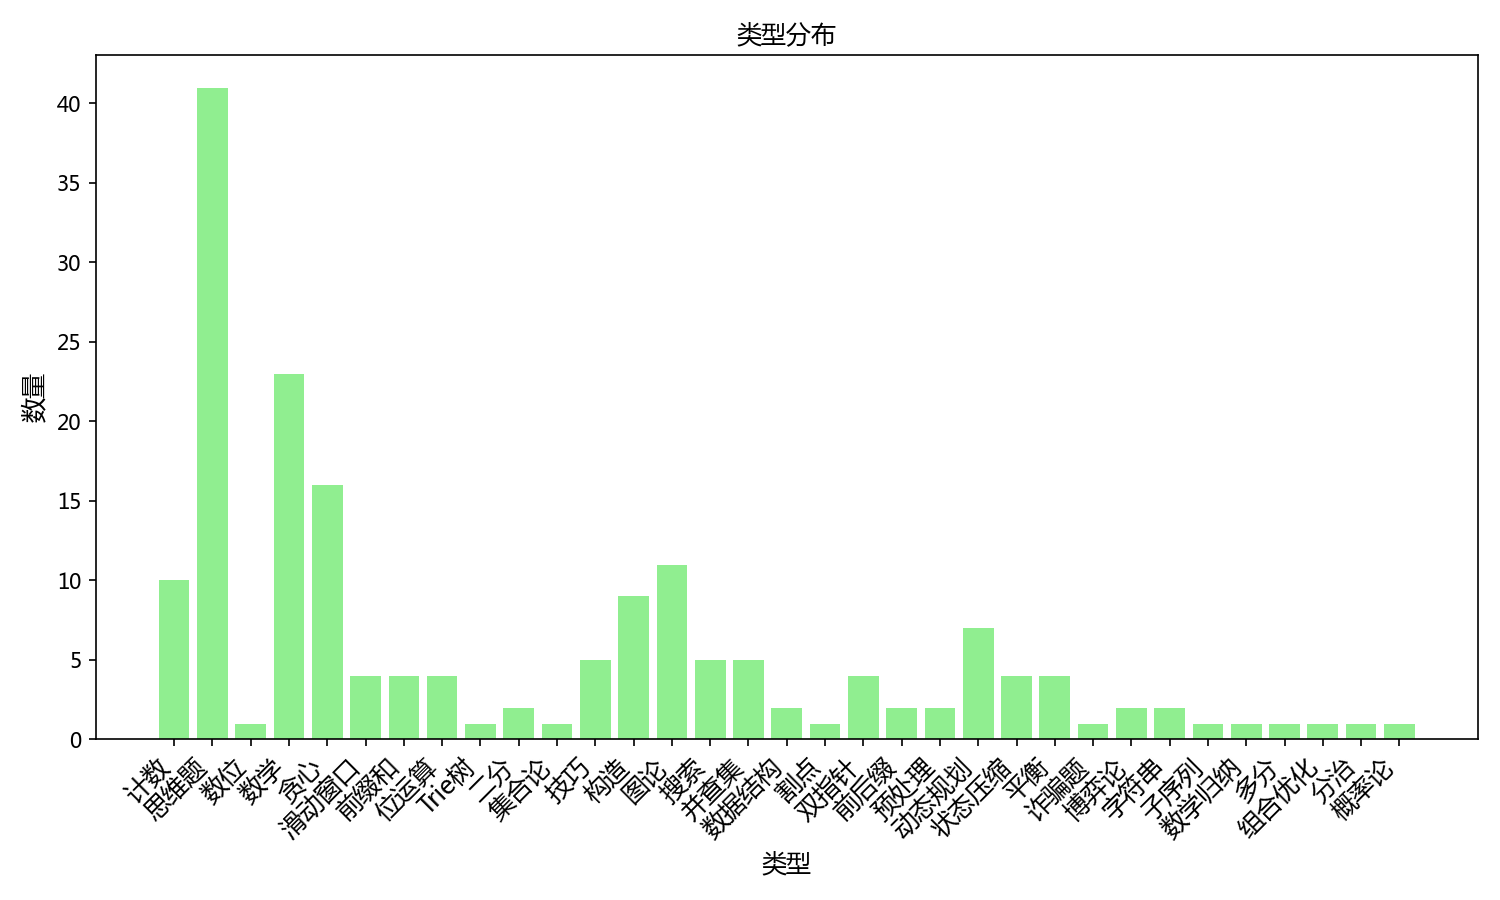
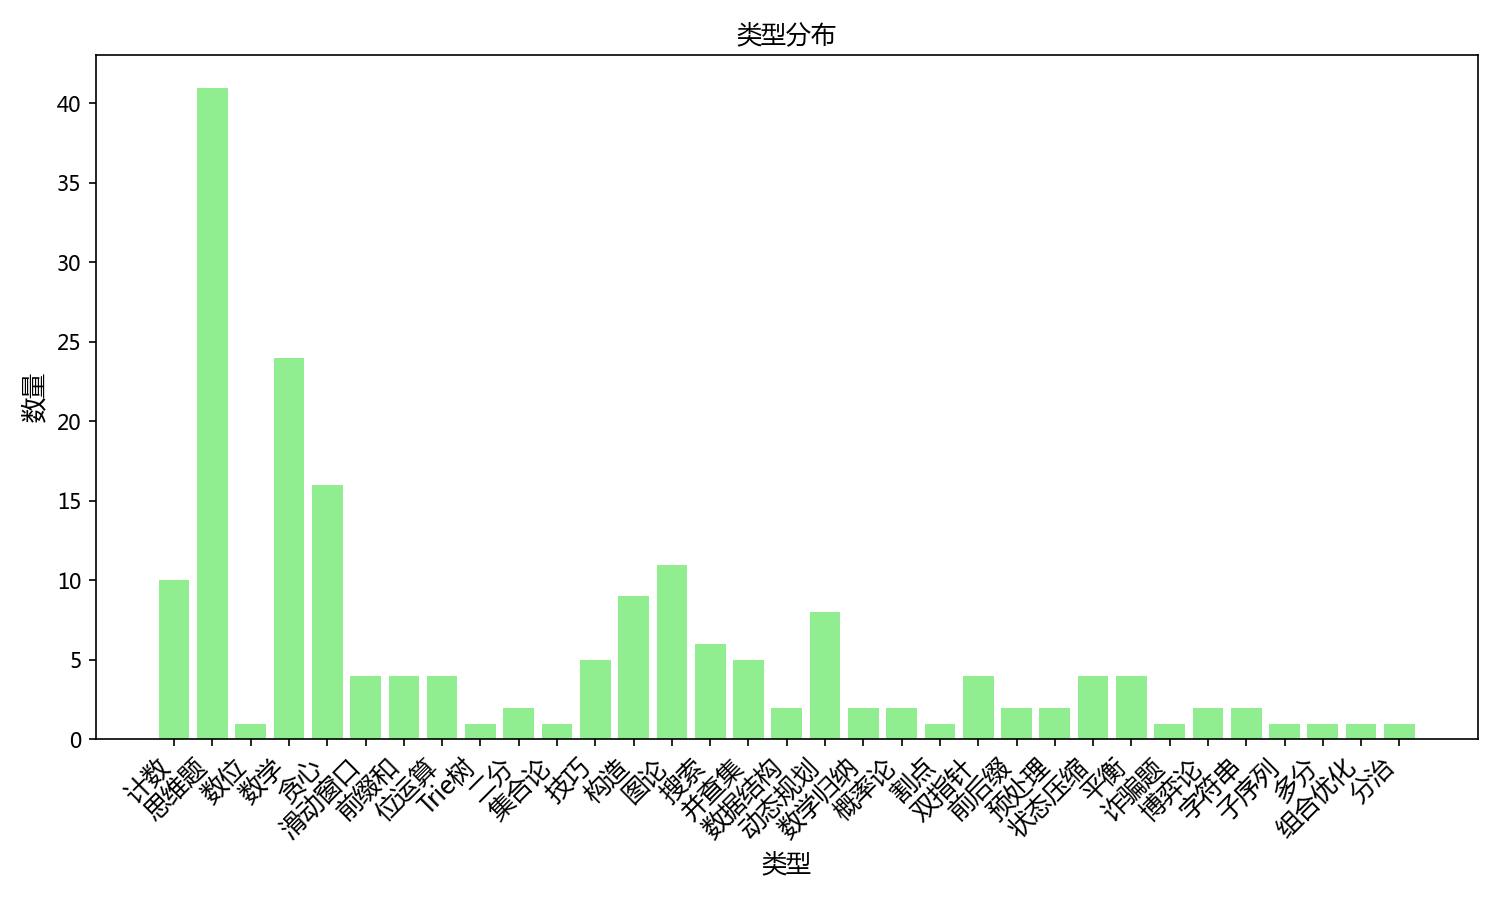
自动提交生成的文件

diff --git a/assets/scripts/UserPersonalSpace/users_html/JNMC孙国庆.html b/assets/scripts/UserPersonalSpace/users_html/JNMC孙国庆.html
@@ -234,7 +234,7 @@
         <rect class="day" width="11" height="11" y="0" fill="#1f9e2a" data-item="2" data-date="02/10/2025"></rect>
 <rect class="day" width="11" height="11" y="13" fill="#f2f2f2" data-item="0" data-date="02/11/2025"></rect>
 <rect class="day" width="11" height="11" y="26" fill="#37c043" data-item="1" data-date="02/12/2025"></rect>
-<rect class="day" width="11" height="11" y="39" fill="#37c043" data-item="1" data-date="02/13/2025"></rect>
+<rect class="day" width="11" height="11" y="39" fill="#1f9e2a" data-item="2" data-date="02/13/2025"></rect>
 <rect class="day" width="11" height="11" y="52" fill="#f2f2f2" data-item="0" data-date="02/14/2025"></rect>
 <rect class="day" width="11" height="11" y="65" fill="#f2f2f2" data-item="0" data-date="02/15/2025"></rect>
 <rect class="day" width="11" height="11" y="78" fill="#f2f2f2" data-item="0" data-date="02/16/2025"></rect>
@@ -665,7 +665,7 @@
         <div class="box-container">
             <div class="_UserActivityFrame_countersRow">
                 <div class="_UserActivityFrame_counter">
-                    <div class="_UserActivityFrame_counterValue">86 篇</div>
+                    <div class="_UserActivityFrame_counterValue">87 篇</div>
                     <div class="_UserActivityFrame_counterDescription">总文章数</div>
                 </div>
             </div>
@@ -1193,6 +1193,12 @@
         <div class="blog-post">
             <button class="blog-button" onclick="window.location.href='/刷题模块/OJ/牛客/周赛80/div2_{贪心;构造}_牛客_训练参赛(二).md/'">
                 训练参赛(二)
+            </button>
+        </div>
+        
+        <div class="blog-post">
+            <button class="blog-button" onclick="window.location.href='/刷题模块/OJ/牛客/周赛80/div3_{动态规划;数学;搜索;数学归纳;概率论}_牛客_不公平对局.md/'">
+                不公平对局
             </button>
         </div>
         

diff --git a/刷题模块/OJ/index.html b/刷题模块/OJ/index.html
@@ -114,6 +114,10 @@
   <a href="牛客/周赛80/div4_{贪心;计数;思维题}_牛客_举手赢棋hard.md">举手赢棋hard</a>
   <div class="problem-meta">难度: div4 | 类型: 贪心, 计数, 思维题 | OJ: 牛客</div>
 </div>
+<div class="problem-item div3">
+  <a href="牛客/周赛80/div3_{动态规划;数学;搜索;数学归纳;概率论}_牛客_不公平对局.md">不公平对局</a>
+  <div class="problem-meta">难度: div3 | 类型: 动态规划, 数学, 搜索, 数学归纳, 概率论 | OJ: 牛客</div>
+</div>
 <div class="problem-item div4">
   <a href="牛客/小白月赛109/div4_{思维题;技巧}_牛客_猪猪的养成计划.md">猪猪的养成计划</a>
   <div class="problem-meta">难度: div4 | 类型: 思维题, 技巧 | OJ: 牛客</div>

diff --git a/刷题模块/OJ/README.md b/刷题模块/OJ/README.md
@@ -29,6 +29,7 @@ published: false
 | [**举手赢棋easy**](牛客/周赛80/div4_{思维题}_牛客_举手赢棋easy.md) | div4 | 思维题 | 牛客 |
 | [**训练参赛(二)**](牛客/周赛80/div2_{贪心;构造}_牛客_训练参赛(二).md) | div2 | 贪心, 构造 | 牛客 |
 | [**举手赢棋hard**](牛客/周赛80/div4_{贪心;计数;思维题}_牛客_举手赢棋hard.md) | div4 | 贪心, 计数, 思维题 | 牛客 |
+| [**不公平对局**](牛客/周赛80/div3_{动态规划;数学;搜索;数学归纳;概率论}_牛客_不公平对局.md) | div3 | 动态规划, 数学, 搜索, 数学归纳, 概率论 | 牛客 |
 | [**猪猪的养成计划**](牛客/小白月赛109/div4_{思维题;技巧}_牛客_猪猪的养成计划.md) | div4 | 思维题, 技巧 | 牛客 |
 | [**联通块问题**](牛客/小白月赛105/div3_{思维题;割点}_牛客_联通块问题.md) | div3 | 思维题, 割点 | 牛客 |
 | [**染色方案**](牛客/小白月赛105/div3_{计数;并查集}_牛客_染色方案.md) | div3 | 计数, 并查集 | 牛客 |
